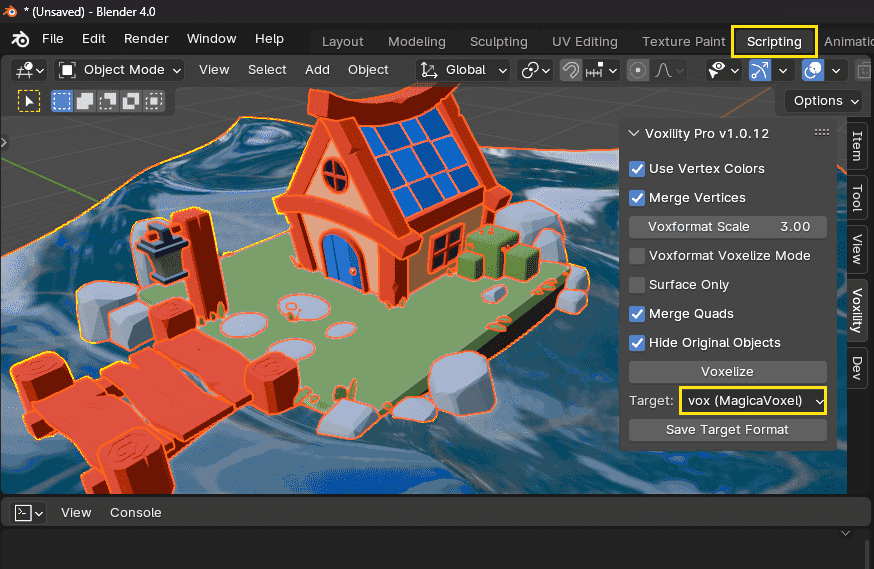
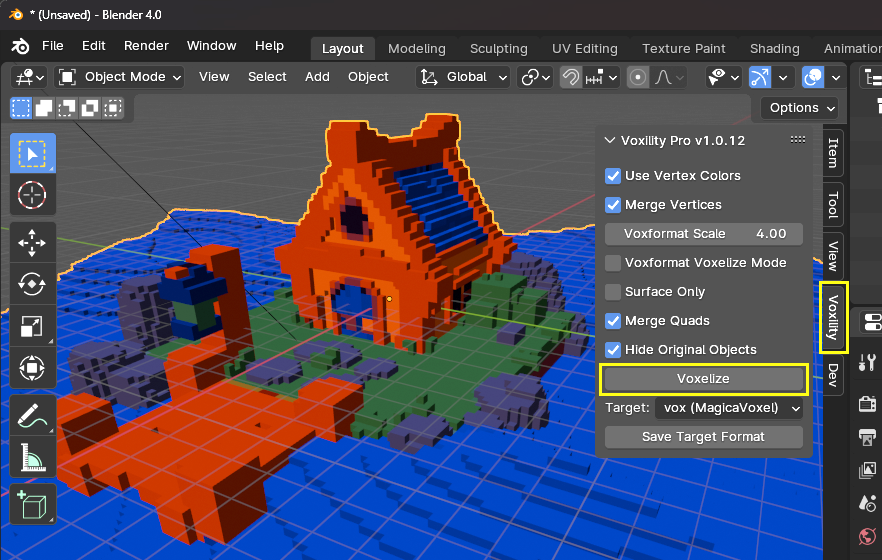
WIP continue documentation

diff --git a/resources/documentation/voxility-content-test.html b/resources/documentation/voxility-content-test.html
@@ -31,6 +31,7 @@
   span.boxed-text {color:white; font-weight: bold; background-color: #444444; padding: 0px 7px 1px 7px; border-radius: 5px;}
   span.boxed-voxility {color:white; font-weight: bold; background-color: #7c7c7c; padding: 0px 8px 1px 8px; border-radius: 5px;}
   span.orange-boxed-text {color:white; font-weight: bold; background-color: #ff8000; padding: 0px 5px 0px 5px; border-radius: 5px;}
+  span.red-boxed-text {color:white; font-weight: bold; background-color: #ff4800; padding: 0px 5px 0px 5px; border-radius: 5px;}
   span.blue-boxed-text {color:white; font-weight: bold; background-color: #5289ff; padding: 0px 7px 1px 7px; border-radius: 5px;}
   span.yellow-boxed-text {color:rgb(0, 0, 0); background-color: #ff0; padding: 0px 5px 0px 5px; border-radius: 5px;}
   span.white-boxed-text {color:#000000; font-weight: bold; background-color: #fff; padding: 0px 8px 0px 8px; border-radius: 5px;}
@@ -46,6 +47,8 @@
   div.image-container {display: flex; flex-direction: column; position: relative; border-radius: 7px; overflow: hidden; margin-bottom: 15px;}
   div img.image-step {display: block; margin-bottom: -1px;}
   div.image-description {background-color: black; color: white; padding: 3px 10px 3px 10px; margin-top: auto; font-weight: normal; border-bottom: 1px solid #808080; text-align: left;}
+  div.text-block {background-color: #363636; padding: 20px 20px 10px 20px; border-radius: 10px;margin-bottom: 20px; color:#ffffff; font-weight: normal; text-align: justify;}
+  div.text-gray-block {border: 3px solid #ff4800; color:#fff; font-weight: normal; background-color: #333333; padding: 20px 20px 10px 20px; border-radius: 10px;margin-bottom: 20px; text-align: justify;}
 </style>
 <!-- =================================================================================================== -->
 <!-- 1 === Introduction -->
@@ -53,8 +56,8 @@
 <h4 class="outline-item-h4"><span class="outline-number-main">1</span> Introduction</h4>
 <p class="default-format"><span class="boxed-voxility">Voxility Pro: Voxel File Format Exchange</span> is a comprehensive <a target="_blank" href="https://docs.blender.org/manual/en/latest/editors/preferences/addons.html">Blender addon</a> designed to revolutionize your voxel-based workflows. With its intuitive features and seamless integration, Voxility Pro empowers artists and designers to unleash their creativity and explore new dimensions of voxel modeling within the familiar Blender environment.</p>
 <p class="default-format">This addon supports seamless import and export of various popular voxel file formats, including <span class="orange-boxed-text">.vox</span> (<b>MagicaVoxel</b>), <span class="orange-boxed-text">.qb</span> (<b>Qubicle</b>), <span class="orange-boxed-text">.vxl</span> (<b>Voxlap</b>), and a plethora of <a href="#fileformats">many more voxel file formats</a>, ensuring compatibility with a wide range of voxel editors and game engines.</p>
-<div style="background-color: #363636; padding: 20px 20px 10px 20px; border-radius: 10px;margin-bottom: 20px;">
-  <p style="color:#ffffff;font-weight: normal; text-align: justify;">Powered by <b>vengi-voxconvert</b>, a cutting-edge voxel conversion tool developed by <a href="https://github.com/mgerhardy"><b>Martin Gerhardy</b></a> as part of <a href="https://github.com/vengi-voxel/vengi"><b>Vengi Voxel</b></a> — an open-source and multi-platform voxel editor — <b>Voxility Pro</b> brings unparalleled voxel conversion capabilities directly to Blender, enhancing your workflow and expanding your creative possibilities.</p>
+<div class="text-block">
+  <p>Powered by <b>vengi-voxconvert</b>, a cutting-edge voxel conversion tool developed by <a href="https://github.com/mgerhardy"><b>Martin Gerhardy</b></a> as part of <a href="https://github.com/vengi-voxel/vengi"><b>Vengi Voxel</b></a> — an open-source and multi-platform voxel editor — <b>Voxility Pro</b> brings unparalleled voxel conversion capabilities directly to Blender, enhancing your workflow and expanding your creative possibilities.</p>
 </div>
 <!-- =================================================================================================== -->
 <!-- 1.1 === Overview -->
@@ -108,7 +111,7 @@
 <!-- =================================================================================================== -->
 <h6 class="outline-item-small-h6" id="fileformats"><span class="outline-number-2sub">1.4.1</span> Supported Voxel File Formats</h6>
 <p class="default-format"><span class="boxed-voxility">Voxility Pro</span> supports a wide range of formats, and we are continually adding more support. Currently, the following types are supported, indicated by a checkmark for their corresponding import or export format.</p>
-<table class="formats-table">
+<table class="default-table">
   <thead class="table-header-type">
     <tr style="color:#ffffff;">
       <th class="padded-cell">Name</th>
@@ -229,7 +232,7 @@
 <div class="image-container">
   <img class="image-step" src="./voxility-documentation/voxility-images/step-0-check-blender-version.png" alt="Check Blender Version">
   <div class="image-description">
-    In this example the Blender version is <span class="yellow-boxed-text"><b>4.0</b></span>.
+    In this example the Blender version is <span class="yellow-boxed-text"><b>4.0</b></span>
   </div>
 </div>
 <!-- =================================================================================================== -->
@@ -323,7 +326,7 @@ target="_blank">open the Linux Console or Terminal</a> and copy-paste the follow
 </div>
 <div style="background-color: #e0e0e0; padding: 15px 15px 5px 15px; border-radius: 10px;margin-bottom: 20px;">
   <p style="color:#000;font-weight: normal; text-align: justify;">
-    <b>NOTE</b>: Don't forget to <a href="https://docs.blender.org/manual/en/latest/editors/preferences/introduction.html#managing-preferences" target="_blank">save your preferences</a> using <span class="boxed-text">Save Preferences</span> button located in the lower left corner of the Preferences window, so you don't have to tick the checkboxes again the next time you open Blender.</p>
+    <span class="blue-boxed-text">NOTE:</span> Don't forget to <a href="https://docs.blender.org/manual/en/latest/editors/preferences/introduction.html#managing-preferences" target="_blank">save your preferences</a> using <span class="boxed-text">Save Preferences</span> button located in the lower left corner of the Preferences window, so you don't have to tick the checkboxes again the next time you open Blender.</p>
 </div>
 <!-- =================================================================================================== -->
 <!-- 3.2 === User Interface Overview -->
@@ -334,29 +337,113 @@ target="_blank">open the Linux Console or Terminal</a> and copy-paste the follow
 <!-- 3.2.1 === Export Voxel Format File -->
 <!-- =================================================================================================== -->
 <h6 class="outline-item-small-h6"><span class="outline-number-2sub">3.2.1</span> Export Voxel Format File</h6>
-<p class="default-format">You can export your mesh by selecting the mesh-type objects and accessing the export options through menu
+
+<p class="default-format">You can export to various popular voxel file formats,
+  including <span class="orange-boxed-text">.vox</span> (<b>MagicaVoxel</b>),
+  <span class="orange-boxed-text">.qb</span> (<b>Qubicle</b>),
+  <span class="orange-boxed-text">.vxl</span> (<b>Voxlap</b>),
+  and <a href="#fileformats">many more voxel file formats</a>
+  by accessing the export options through menu
   <span class="boxed-text">File</span><span class="arrow">&rArr;</span><span class="boxed-text">Export</span><span
   class="arrow">&rArr;</span><span class="boxed-text">Voxility Voxel Formats</span><span
   class="arrow">&rArr;</span><span class="orange-boxed-text">.*</span>
-  and selecting the voxel file format of choice. Remember you can streamline this export list by filtering out only the relevant options through the <a href="#configsection">Configuration Options</a>.</p>
-<img class="image-step" src="./voxility-documentation/voxility-images/step-4a-ui-export.png" alt="Voxility Pro Export Voxel Format File">
-<p class="default-format">You will be presented with the <b>Export Dialog</b> where you can select a location and input a file name. Press the <span class="boxed-text">Export</span> button to start the conversion process and save it to your chosen destination. This may take some time, so please be patient.</p>
-<img class="image-step" src="./voxility-documentation/voxility-images/step-6-ui-export-dialog.png" alt="Voxility Pro Export Voxel Format Dialog">
-<div class="section-end"></div>
+  and selecting a voxel format of your choice. You can streamline this export list by filtering out
+  only the relevant options through the <a href="#configsection">Configuration Options</a>.</p>
+<div class="image-container">
+  <img class="image-step" src="./voxility-documentation/voxility-images/step-4-ui-export.png" alt="Voxility Pro Export Voxel Format File">
+  <div class="image-description">
+    Export to any <a href="#fileformats">supported voxel file format</a> of your choice
+  </div>
+</div>
+<p class="default-format">Simply select all mesh objects and export. You will be presented with the <span class="blue-boxed-text">Export Dialog</span>
+  where you can select a location and input a file name.
+  You can also adjust the export options such as the <span class="boxed-text">Voxformat Scale</span> attribute,
+  which increases the voxel resolution of your output. Hover over each option to reveal a tooltip explaining each property.
+  Press the <span class="boxed-text">Export</span> button to start the conversion process and save it to your chosen destination.
+  This may take some time, so <b>please be patient.</b></p>
+<div class="image-container">
+  <img class="image-step" src="./voxility-documentation/voxility-images/step-6-ui-export-dialog.png" alt="Voxility Pro Export Voxel Format Dialog">
+  <div class="image-description">
+    In this example we are exporting to <span class="orange-boxed-text">.vox</span> file format
+  </div>
+</div>
+<p class="default-format">In the previous example we exported a <span class="orange-boxed-text">.vox</span> file which can be opened in <a target="_blank" href="https://ephtracy.github.io/">MagicaVoxel</a></p>
+<div class="image-container">
+  <img class="image-step" src="./voxility-documentation/voxility-images/sample-magicavoxel-render.png" alt="Voxility Pro Export Voxel Format Dialog">
+  <div class="image-description">
+    This is a sample render preview in <b>MagicaVoxel</b> of the exported <span class="orange-boxed-text">.vox</span> file.
+  </div>
+</div>
+<p class="default-format"><b>MagicaVoxel</b> is just one example of various software and game engines that are capable of processing a wide array of voxel file formats, each designed to accommodate different needs and functionalities.</p>
+<div class="text-gray-block"><p>
+  <span class="red-boxed-text">WARNING:</span> Before delving into larger projects,
+  it's recommended to start with smaller objects containing fewer vertices to familiarize yourself with the addon's functionality.
+  Processing time can vary significantly, ranging from seconds to several minutes,
+  depending on the complexity of your object and your computer specifications.
+  Objects with large dimensions, as well as higher vertex and face counts, tend to be more complex.
+  Therefore, consider reducing the number of vertices through decimation before using certain features.
+  Begin with low <b>Voxformat Scale</b> values like <b>1.0</b> and gradually increase until you achieve the desired voxel resolution.
+  While the interface may appear unresponsive, rest assured it is processing. Please be patient while the process completes.</p>
+</div>
 <!-- =================================================================================================== -->
 <!-- 3.2.2 === Import Voxel Format File -->
 <!-- =================================================================================================== -->
 <h6 class="outline-item-small-h6"><span class="outline-number-2sub">3.2.2</span> Import Voxel Format File</h6>
-<p class="default-format">Importing stuff here <span class="boxed-text">File</span><span class="arrow">&rArr;</span><span class="boxed-text">Import</span><span class="arrow">&rArr;</span><span class="boxed-text">Voxility Voxel Formats</span><span class="arrow">&rArr;</span><span class="orange-boxed-text">.*</span></p>
-<img src="./voxility-documentation/voxility-images/step-5a-ui-import.png" alt="Voxility Pro Import Voxel Format File">
-<div class="section-spacer"></div>
+<p class="default-format">You can import various popular voxel file formats,
+  including <span class="orange-boxed-text">.vox</span> (<b>MagicaVoxel</b>),
+  <span class="orange-boxed-text">.qb</span> (<b>Qubicle</b>),
+  <span class="orange-boxed-text">.vxl</span> (<b>Voxlap</b>),
+  and <a href="#fileformats">many more voxel file formats</a>
+  by accessing the import options through menu
+  <span class="boxed-text">File</span><span class="arrow">&rArr;</span><span class="boxed-text">Import</span><span
+  class="arrow">&rArr;</span><span class="boxed-text">Voxility Voxel Formats</span><span
+  class="arrow">&rArr;</span><span class="orange-boxed-text">.*</span>
+  and selecting a supported voxel file. You can streamline this import list by filtering out
+  only the relevant options through the <a href="#configsection">Configuration Options</a>.</p>
+<div class="image-container">
+  <img class="image-step" src="./voxility-documentation/voxility-images/step-5-ui-import.png" alt="Voxility Pro Import Voxel Format File">
+  <div class="image-description">
+    Import any <a href="#fileformats">supported voxel file format</a> of your choice
+  </div>
+</div>
+<p>Once you have chosen a voxel format, you will be presented with the <span class="blue-boxed-text">Import Dialog</span>
+  where you can select a file to import. You can also adjust the import options.
+  Hover over each option to reveal a tooltip explaining each property.
+  Press the <span class="boxed-text">Import</span> button to start the import process.
+  This may take some time, so <b>please be patient.</b></p>
+<div class="image-container">
+  <img src="./voxility-documentation/voxility-images/step-7-ui-import-dialog.png" alt="Voxility Pro N-Panel Voxelize Button">
+  <div class="image-description">
+    Import Dialog
+  </div>
+</div>
+<div class="text-gray-block">
+  <p><span class="red-boxed-text">WARNING:</span> Before diving into larger projects,
+    it's advisable to start with smaller files to familiarize yourself with the addon's functionality.
+    The processing time can vary significantly, ranging from seconds to several minutes,
+    depending on the complexity of your voxel file and your computer specifications.
+    While it may seem that the user interface is not responding or in a hang state,
+    rest assured it is processing. Kindly be patient and await the completion of the process.
+  </p>
+</div>
 <!-- =================================================================================================== -->
 <!-- 3.2.3 === Mesh Conversion w/ N-Panel -->
 <!-- =================================================================================================== -->
-<h6 class="outline-item-small-h6"><span class="outline-number-2sub">3.2.3</span> Mesh Conversion Voxelize Button</h6>
+<h6 class="outline-item-small-h6"><span class="outline-number-2sub">3.2.3</span> Mesh Conversion: Voxelize Button</h6>
 <p class="default-format">N-Panel <span class="boxed-text">N-Panel</span><span class="arrow">&rArr;</span><span class="boxed-text">Voxility</span><span class="arrow">&rArr;</span><span class="boxed-text">Voxelize</span></p>
-<img src="./voxility-documentation/voxility-images/step-8-ui-target-save-to-folder.png" alt="Voxility Pro N-Panel">
-<div class="section-end"></div>
+<div class="image-container">
+  <img src="./voxility-documentation/voxility-images/sample-use-step-1-select-meshes-to-voxelize.png" alt="Voxility Pro N-Panel Voxelize Button">
+  <div class="image-description">
+    Voxelize Button
+  </div>
+</div>
+<p class="default-format">Save</p>
+<div class="image-container">
+  <img src="./voxility-documentation/voxility-images/sample-use-step-3-save-target.png" alt="Voxility Pro N-Panel Save Button">
+  <div class="image-description">
+    Save Button
+  </div>
+</div>
 <!-- =================================================================================================== -->
 <!-- 3.3 === Basic Operations -->
 <!-- =================================================================================================== -->
@@ -416,45 +503,6 @@ the more voxel detail you can produce, but it may take longer to process. While 
 user interface is not responding or in a hang state, rest assured it is processing. Kindly be
 patient and await the completion of the process; the output will be visible in the&nbsp;<a
 href="https://docs.blender.org/manual/en/latest/editors/info_editor.html" target="_blank"
->Info Editor</a>.</p>
-<p><img
-src="https://markets-rails.s3.amazonaws.com/cache/69619b536bafe30c9f1836099eea2731.png"
-style="max-width: 100%;"><br></p>
-<p>You will see the <b>vox </b>option under <i>File
-&gt; Export &gt; MagicaVoxel (.vox)</i><span> and the <b>qb </b>option
-under&nbsp;</span><i>File &gt; Export &gt; Qubicle (.qb).&nbsp;</i><span
->Just simply select the object(s) in Blender that you want to export to
-voxel format then export. Please experiment first with smaller sized objects that have lesser
-vertices to get a feel for the addon. It can take from seconds to several minutes depending on how
-complex your object is. Complexity is compounded by more vertices and faces. So it is always a
-good idea to try to decimate and reduce the amount of vertices before using this feature.
-</span><b>Please be patient</b><span>. Be careful
-for objects that exceed 100 meters in dimension. The bigger the object, the more voxels, and the
-longer it will take to finish processing. The first export may take longer than the succeeding
-exports. So try the export first with the default cube. It may take longer than normal for the
-first time export.</span></p>
-<p><img
-src="https://markets-rails.s3.amazonaws.com/cache/4a2a6e5788a973db24a13f8e51a0a323.png"
-style="max-width: 100%;"><span><br></span></p>
-<p></p>
 
-<p>You can adjust some settings for the resulting vox file. Hover over each
-item to see a tooltip for its function. Be careful with the <b>Voxformat Scale</b>. First experiment
-with lower values like <b>1</b>&nbsp;and then <b>2</b> and up to see how the number of voxels add up
-in the resulting output. Don't immediately go to 10 or 100! Keep in mind that increasing this value
-will result in higher voxel resolution but will also extend the time required to generate the vox
-file. It could take up to several minutes depending on how fast your computer is so please be
-patient.</p>
-<p><img
-src="https://markets-rails.s3.amazonaws.com/cache/ec2550fdaa08febbc307544eef7d3c43.png"
-style="max-width: 100%;"><br></p>
-<p>Now you can directly open the generated&nbsp;<b>.vox</b> file in <b
->MagicaVoxel </b>or <b>VoxEdit</b><span
-> or the generated <b>.qb</b>&nbsp;file in </span><b
->Qubicle</b>. Please don't hesitate to message us for issues so we can
-address them promptly. Enjoy!</p>
-<p><img
-src="https://markets-rails.s3.amazonaws.com/cache/dfa520efde70e82f73440d431272e3d4.jpg"
-style="max-width: 100%;"></p>
 
 